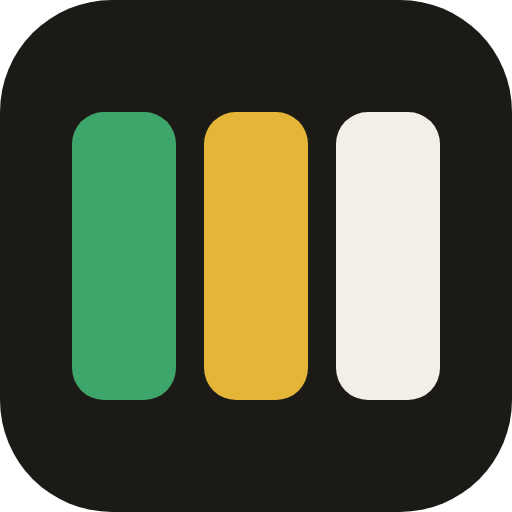
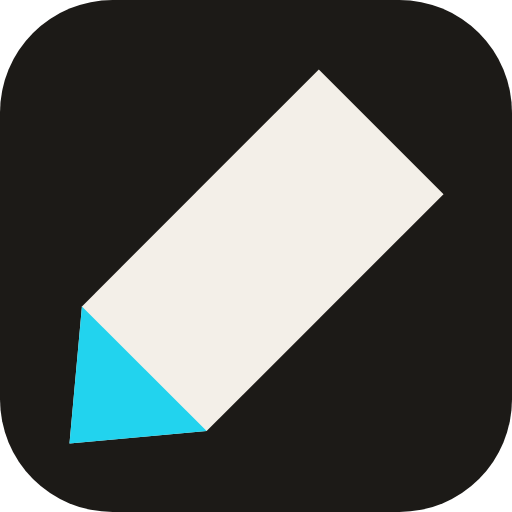
feat: a pencil for a drawing game
The three coloured bars were WordRush's, inherited by copying. There they *are*
the game — green for a correct letter, yellow for a present one, ink for an
absent one — and here they were three rectangles saying nothing, built out of the
two colours the design system reserves for right and wrong and explicitly forbids
using as decoration. So this is not a game breaking the family rule; it is the
game that was breaking it stopping.

The mark is a pencil: body in ink, tip in the accent, which is the identity knob
the family already grants. Drawn corner to corner in its box on purpose — four
candidate marks were rendered at 64, 32 and 16 px before picking, and the first
two pencils died at favicon size. A thin diagonal has no mass; the three bars
survived 16 px because they are chunky verticals, and the replacement had to earn
that the same way. It is also checked on the light badge, where the body flips to
ink and the tip to the light accent.

One shape, three places: `Logo.tsx` renders it, `favicon.svg` is the same two
paths, and `build-og.mjs` has the third copy for the social card.

The icons are built by that script now instead of being hand-made files nobody
remembers to update. That is not hypothetical tidiness — `apple-touch-icon.png`
and `icon-512.png` still carried the old bars a moment ago, which is exactly the
drift the single source is there to stop: the tab showing one logo and the home
screen another.

diff --git a/frontend/src/shared/components/layout/Logo.tsx b/frontend/src/shared/components/layout/Logo.tsx
@@ -2,14 +2,30 @@ import { Link } from 'react-router-dom';
 
 import { PATHS } from '@/shared/routes/paths';
 
-/** Three-bar mark + wordmark from the mockups' top bar. */
+/**
+ * The mark: a pencil, body in ink and tip in the accent.
+ *
+ * It replaces the three bars this game inherited from its sibling. There those
+ * bars are the game — green for a correct letter, yellow for a present one, ink
+ * for an absent one — and here they were three coloured rectangles meaning
+ * nothing, built out of the two colours the design system reserves for right
+ * and wrong and forbids using as decoration. A drawing game's mark should say
+ * *drawing*; the family shows in the type, the tokens and everything around it.
+ *
+ * Drawn corner to corner on purpose. A thin diagonal is the first thing to die
+ * at favicon size, and this has to survive 16 px in a browser tab.
+ */
+export const LogoMark = ({ size = 22 }: { size?: number }) => (
+  <svg width={size} height={size} viewBox="0 0 64 64" aria-hidden="true">
+    <path d="M42 2 L62 22 L24 60 L2 62 L4 40 Z" fill="currentColor" />
+    <path d="M4 40 L24 60 L2 62 Z" className="text-accent" fill="currentColor" />
+  </svg>
+);
+
+/** Mark + wordmark from the mockups' top bar. */
 export const Logo = ({ appName }: { appName: string }) => (
   <Link to={PATHS.home} className="flex items-center gap-2.5 text-ink no-underline">
-    <span className="flex gap-0.75" aria-hidden="true">
-      <span className="h-4.5 w-2.5 rounded-[3px] bg-green" />
-      <span className="h-4.5 w-2.5 rounded-[3px] bg-yellow" />
-      <span className="h-4.5 w-2.5 rounded-[3px] bg-ink" />
-    </span>
+    <LogoMark size={22} />
     <span className="font-display text-xl font-extrabold tracking-[-0.02em]">{appName}</span>
   </Link>
 );
